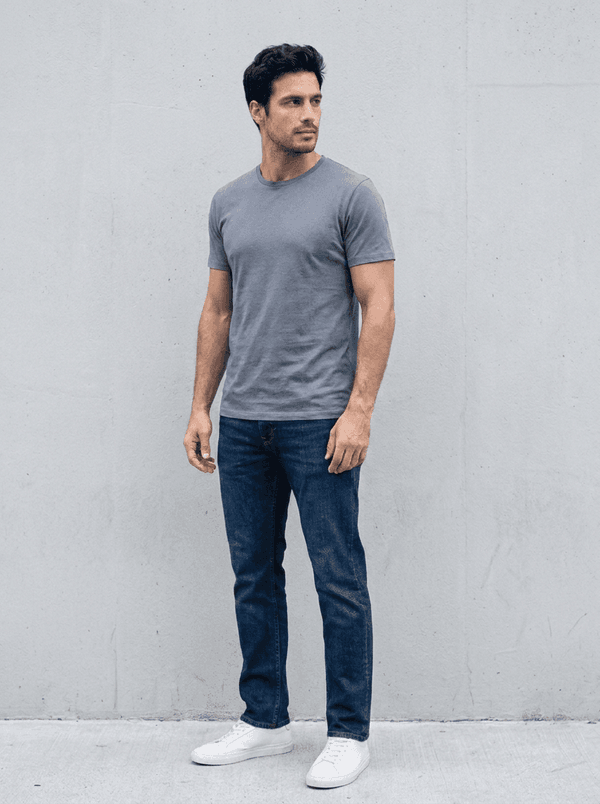
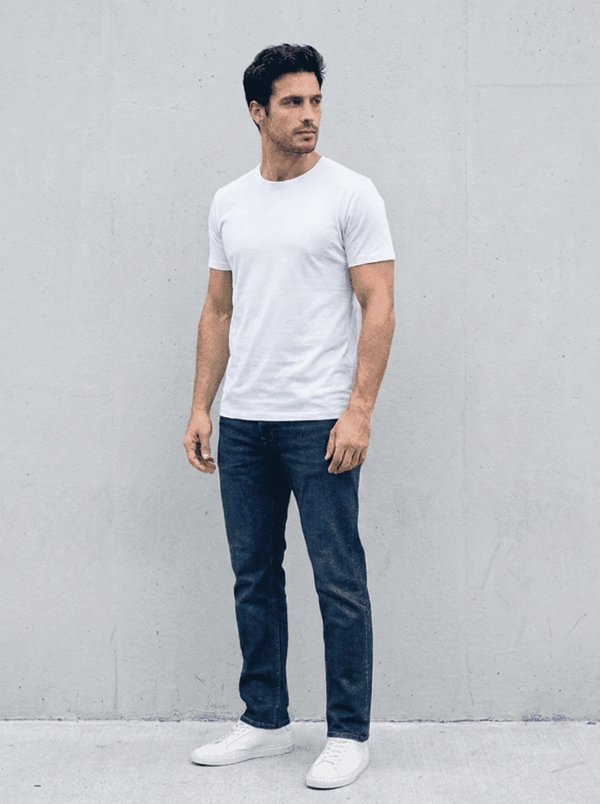
v0.2.308.3 — el hero de hombre también arranca en camiseta blanca
Paralelo con la versión de mujer. Antes arrancaba en playera gris, la misma
prenda que el look propuesto pone bajo el saco, así que antes y después
compartían pieza. Sólo cambia el color de la playera en la imagen.

diff --git a/CHANGELOG.md b/CHANGELOG.md
@@ -2,6 +2,18 @@
 
 Cambios notables de stailist. Formato basado en [Keep a Changelog](https://keepachangelog.com/es/); versiones `MAJOR.MINOR.PATCH.MICRO`.
 
+## [0.2.308.3] - 2026-09-08 — el hero de hombre también arranca en camiseta blanca
+
+Cierra el paralelo con la versión de mujer, cuyo "antes" del hero es camiseta
+blanca lisa + jeans. El de hombre arrancaba en camiseta gris, que además es
+casi la misma playera gris que el look propuesto pone debajo del saco: el
+antes y el después compartían prenda. Ahora el antes es camiseta blanca y el
+salto se lee — blanca sola → saco marino sobre playera gris, jeans oscuros y
+mocasines café, que es exactamente lo que listan las cuatro prendas de al lado.
+
+Editada con el modelo de imagen del producto: sólo cambia el color de la
+playera; misma persona, corte, pliegues, pose, jeans, tenis, muro y luz.
+
 ## [0.2.308.2] - 2026-09-08 — el "antes" del try-on de hombre, sin la capa
 
 En la demo "pruébatelo" del paso 4, el antes de hombre traía una sobrecamisa
